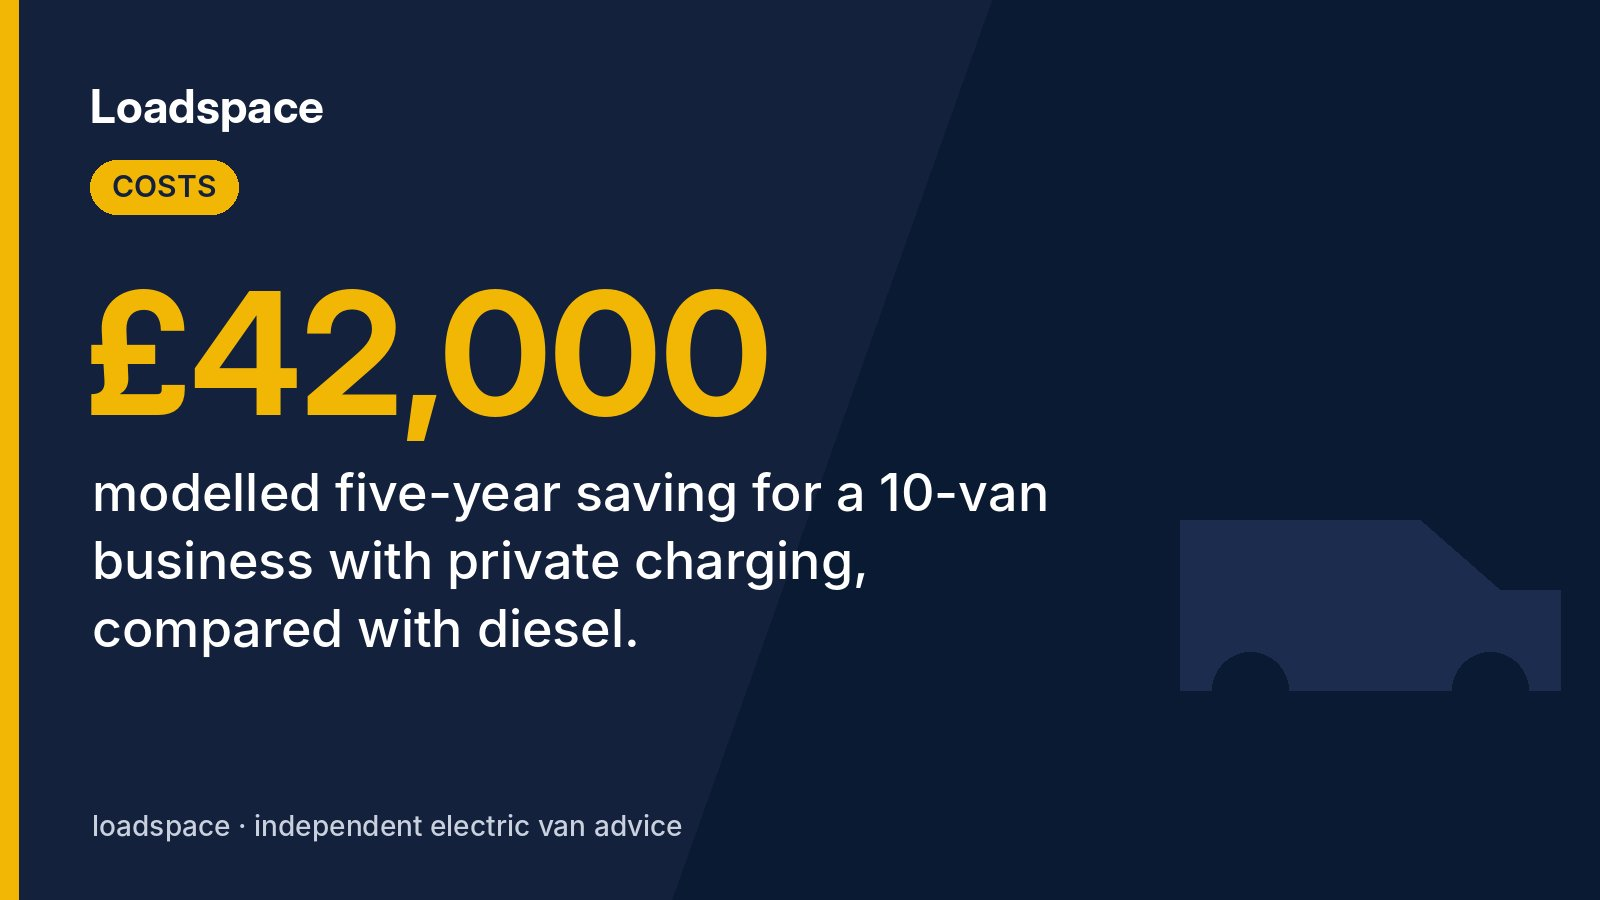
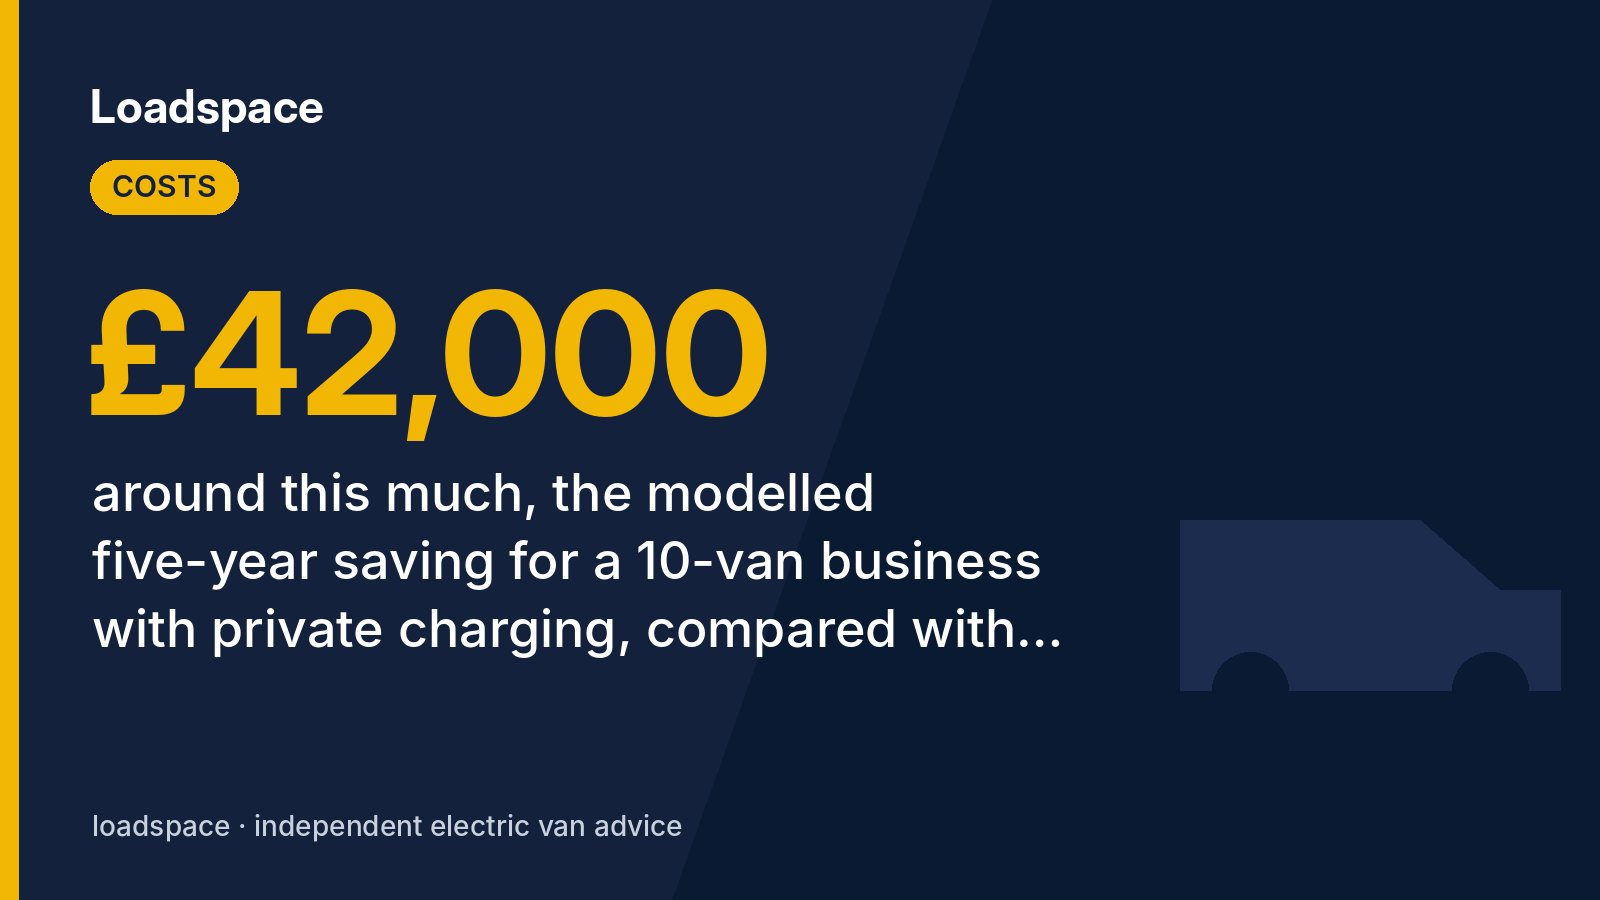
News: SME costs story, fixes from first fact-check (draft)
Claude-Session: https://claude.ai/code/session_01Y739fGRorrAUGqAGqyHfoK

Changed region(s): [[0.0625, 0.5289, 0.6562, 0.6533], [0.0625, 0.6844, 0.6562, 0.7467]]

diff --git a/src/pages/news/sme-electric-van-costs-charging-study.md b/src/pages/news/sme-electric-van-costs-charging-study.md
@@ -1,11 +1,11 @@
 ---
 layout: ../../layouts/NewsPost.astro
-title: "Own charging decides whether electric vans pay, study says"
+title: "Charging access shapes electric van savings, study suggests"
 date: 2026-11-23T09:00:00Z
 tag: Costs
-summary: "Modelling for a group of rental, leasing and dealer firms suggests a 10-van business with its own charging could save around £42,000 over five years compared with diesel, Greenfleet reports, but would be far worse off relying on public chargers."
+summary: "Modelling commissioned by a group of companies including Zenith and Enterprise Mobility suggests a 10-van business with private charging could save around £42,000 over five years compared with diesel, Greenfleet reports, but could be far worse off relying on public chargers."
 stat: "£42,000"
-statLabel: "modelled five-year saving for a 10-van business with private charging, compared with diesel."
+statLabel: "around this much, the modelled five-year saving for a 10-van business with private charging, compared with diesel."
 sources:
   - https://greenfleet.net/news/19112026/government-urged-give-smes-fairer-route-electric
 facts:
@@ -22,6 +22,21 @@ facts:
   - claim: "three illustrative businesses"
     source: https://greenfleet.net/news/19112026/government-urged-give-smes-fairer-route-electric
     quote: "The analysis examines three illustrative SME archetypes - a construction company operating 10 vans, a surveying business with five company cars and a sole-trader window cleaner"
+  - claim: "a surveying firm with five company cars"
+    source: https://greenfleet.net/news/19112026/government-urged-give-smes-fairer-route-electric
+    quote: "a surveying business with five company cars"
+  - claim: "compared electric with petrol and diesel vehicles"
+    source: https://greenfleet.net/news/19112026/government-urged-give-smes-fairer-route-electric
+    quote: "Cebr's analysis compares the costs of electric and internal combustion engine vehicles across a five-year period"
+  - claim: "access to charging, as well as on financing and the up-front cost"
+    source: https://greenfleet.net/news/19112026/government-urged-give-smes-fairer-route-electric
+    quote: "It finds that the economics of transition are heavily influenced by access to charging infrastructure, financing and the ability to absorb upfront investment."
+  - claim: "Zenith and Enterprise Mobility"
+    source: https://greenfleet.net/news/19112026/government-urged-give-smes-fairer-route-electric
+    quote: "The Open Road Partnership, comprising United Rental Group, Zenith, Enterprise Mobility and Vertu Motors"
+  - claim: "lobbying the government over the ZEV Mandate"
+    source: https://greenfleet.net/news/19112026/government-urged-give-smes-fairer-route-electric
+    quote: "It is calling on Government to use its review of the ZEV Mandate to establish a realistic and achievable trajectory for new electric car and van sales"
   - claim: "a construction firm running 10 vans"
     source: https://greenfleet.net/news/19112026/government-urged-give-smes-fairer-route-electric
     quote: "a construction company operating 10 vans"
@@ -56,6 +71,9 @@ facts:
   - claim: "£110,000 more"
     source: https://greenfleet.net/news/19112026/government-urged-give-smes-fairer-route-electric
     quote: "However, relying on public charging instead could cost the business £110,000 more over the same period, including the cost of lost productive output."
+  - claim: "Lost working time alone could come to more than"
+    source: https://greenfleet.net/news/19112026/government-urged-give-smes-fairer-route-electric
+    quote: "Relying on public charging for the same fleet could result in more than £23,800 of lost productive output each year"
   - claim: "including the cost of lost working time"
     source: https://greenfleet.net/news/19112026/government-urged-give-smes-fairer-route-electric
     quote: "However, relying on public charging instead could cost the business £110,000 more over the same period, including the cost of lost productive output."
@@ -65,7 +83,7 @@ facts:
   - claim: "£23,800"
     source: https://greenfleet.net/news/19112026/government-urged-give-smes-fairer-route-electric
     quote: "Relying on public charging for the same fleet could result in more than £23,800 of lost productive output each year"
-  - claim: "as vans and staff spend working time getting to and using public chargers"
+  - claim: "as vans and staff spend time getting to and using public chargers"
     source: https://greenfleet.net/news/19112026/government-urged-give-smes-fairer-route-electric
     quote: "as vehicles and employees spend working time travelling to and using public chargers"
   # Sole trader
@@ -75,7 +93,7 @@ facts:
   - claim: "than buying a diesel van outright"
     source: https://greenfleet.net/news/19112026/government-urged-give-smes-fairer-route-electric
     quote: "For the modelled sole trader, financing an electric van would leave the business around £100 worse off after five years than buying a diesel van outright today."
-  - claim: "financing can wipe out the longer-term savings"
+  - claim: "financing may wipe out the longer-term savings"
     source: https://greenfleet.net/news/19112026/government-urged-give-smes-fairer-route-electric
     quote: "Financing can help SMEs spread the initial investment but may eliminate the longer-term savings from switching to electric."
   # What the partnership wants
@@ -96,30 +114,30 @@ facts:
     quote: "Per Voegerl, Chief Executive of the United Rental Group, said"
 ---
 
-Whether an electric van saves a small business money depends heavily on where it charges, according to modelling reported by Greenfleet. The research was carried out by the Centre for Economics and Business Research (Cebr) and commissioned by the **Open Road Partnership**: United Rental Group, Zenith, Enterprise Mobility and Vertu Motors.
+Whether an electric van saves a small business money depends heavily on its access to charging, as well as on financing and the up-front cost, according to modelling reported by Greenfleet. The research was carried out by the Centre for Economics and Business Research (Cebr) and commissioned by the **Open Road Partnership**: United Rental Group, Zenith, Enterprise Mobility and Vertu Motors.
 
-Cebr looked at three illustrative businesses, including **a construction firm running 10 vans** and **a sole-trader window cleaner**, and compared electric with diesel over five years. Its sums included purchase and finance, insurance, charging equipment, tax, grants, fuel and electricity, servicing, and the time lost using public chargers.
+Cebr looked at three illustrative businesses: **a construction firm running 10 vans**, a surveying firm with five company cars and **a sole-trader window cleaner**, and compared electric with petrol and diesel vehicles over five years. Its sums included purchase and finance, insurance, charging equipment, tax, grants, fuel and electricity, servicing, and the time lost using public chargers.
 
 ## The 10-van business
 
 - **Year one costs more.** Choosing electric could cost the business **£15,500** extra in the year of purchase, mainly because of the up-front cost of the vans and chargers.
-- **With its own charging, it pays back.** With access to private charging, annual costs fall below diesel from 2027, the business is expected to break even by 2028, and it saves **around £42,000** over five years.
-- **Relying on public charging, it doesn't.** The same fleet could pay **£110,000 more** over five years, including the cost of lost working time. That works out at more than **£23,800** a year, as vans and staff spend working time getting to and using public chargers. The gap between the two approaches could reach **£150,000**.
+- **With its own charging, it pays back.** With access to private charging, annual costs fall below diesel from 2027, the business is expected to break even by 2028, and could save **around £42,000** over five years.
+- **Relying on public charging, it doesn't.** The same fleet could pay **£110,000 more** over five years, including the cost of lost working time. Lost working time alone could come to more than **£23,800** a year, as vans and staff spend time getting to and using public chargers. The gap between the two approaches could reach **£150,000**.
 
 ## The sole trader
 
-For the window cleaner, financing an electric van would leave the business **around £100 worse off** after five years than buying a diesel van outright. Cebr's analysis suggests financing can wipe out the longer-term savings, even though it spreads the up-front cost.
+For the window cleaner, financing an electric van would leave the business **around £100 worse off** after five years than buying a diesel van outright. Cebr's analysis suggests financing may wipe out the longer-term savings, even though it spreads the up-front cost.
 
 ## What the partnership wants
 
-The partnership is calling on the government to use its review of the ZEV Mandate, the rule setting how many new cars and vans must be electric, to set "a realistic and achievable trajectory". It also wants faster access to affordable, reliable charging and help with depot charging, plus more time and flexibility for small firms to switch.
+The partnership is calling on the government to use its review of the ZEV Mandate to set "a realistic and achievable trajectory". It also wants faster access to affordable, reliable charging and help with depot charging, plus more time and flexibility for small firms to switch.
 
 Per Voegerl, chief executive of United Rental Group, said that for many small and medium businesses "the economics of making the switch simply don't stack up yet".
 
-These are modelled examples, not measurements of real firms, and they come from companies with a stake in how the transition is run. Your own numbers will depend on your mileage, your vans and where you can charge.
+These are modelled examples, not measurements of real firms. The research was commissioned by a group of companies that is lobbying the government over the ZEV Mandate. Your own numbers will depend on your mileage, your vans and where you can charge.
 
 ## What it means for you
 
-- **Charging is the big question.** If you can charge at home or at a yard, the case for electric looks much stronger in this modelling. If you'd rely on public chargers, count the time as well as the cost.
+- **Charging is the big question.** If you have your own charging point, the case for electric looks much stronger in this modelling. If you'd rely on public chargers, count the time as well as the cost.
 - **Check the depot grant.** The [Depot Charging Scheme](/news/depot-charging-scheme-second-window/) is open for applications until February.
 - **Run your own numbers:** our [electric vs diesel calculator](/tools/electric-vs-diesel/) lets you plug in your mileage and charging.
